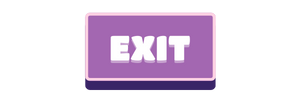
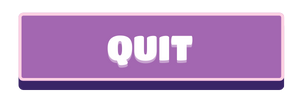
Added a quit button in the main menu
UwU

diff --git a/ShootingStar/src/screens/MainMenu.java b/ShootingStar/src/screens/MainMenu.java
@@ -31,9 +31,9 @@ import javafx.scene.Node;
 public class MainMenu {
 	private static final Image logo = new Image("assets/buttons/logo.png", 450, 450, false, true);
 	private static final Image play = new Image("assets/buttons/play.png");
-	private static final Image tutorial = new Image("assets/buttons/tutorial.png");
+	private static final Image tutorial = new Image("assets/buttons/help.png");
 	private static final Image credits = new Image("assets/buttons/credits.png");
-	private boolean visited = false;
+	private static final Image quit = new Image("assets/buttons/quit.png");
 	private ImageView view_bg;
  	private Sound sound;
     private Stage primaryStage;
@@ -53,10 +53,9 @@ public class MainMenu {
         this.highVitality = highVitality;
         this.hasDied = hasDied;
         
-        if(visited == false) {
-        	this.sound = new Sound();
-            playMusic();
-        }
+        this.sound = new Sound();
+        playMusic();
+        
         
      // Load the images
         Image backgroundImage = new Image("assets/background/spacebg.gif");
@@ -74,28 +73,34 @@ public class MainMenu {
         ImageView view_play = new ImageView(play);
         ImageView view_tutorial = new ImageView(tutorial);
         ImageView view_credits = new ImageView(credits);
+        ImageView view_quit = new ImageView(quit);
         
         // Resize the images
         view_play.setFitWidth(200);
         view_tutorial.setFitWidth(200);
         view_credits.setFitWidth(200);
-
+        view_quit.setFitWidth(200);
+        
         view_play.setPreserveRatio(true);
         view_tutorial.setPreserveRatio(true);
         view_credits.setPreserveRatio(true);
+        view_quit.setPreserveRatio(true);
         
         // Create buttons for the main menu
         Button playButton = new Button();  
         Button tutorialButton = new Button();
         Button creditsButton = new Button();
+        Button quitButton = new Button();
         
         playButton.setStyle("-fx-background-color: transparent; -fx-border-width: 0;");
         tutorialButton.setStyle("-fx-background-color: transparent; -fx-border-width: 0;");
         creditsButton.setStyle("-fx-background-color: transparent; -fx-border-width: 0;");
- 
+        quitButton.setStyle("-fx-background-color: transparent; -fx-border-width: 0;");
+        
         playButton.setGraphic(view_play);
         tutorialButton.setGraphic(view_tutorial);
         creditsButton.setGraphic(view_credits);
+        quitButton.setGraphic(view_quit);
 
         // Set action handlers for the buttons 
         playButton.setOnAction(event -> {
@@ -114,6 +119,10 @@ public class MainMenu {
             hideChildren();
             showCredits();
         });
+        
+        
+        quitButton.setOnAction(event -> quitApplication());
+        
         // storeButton.setOnAction(event -> showStoreScreen());
         // settingsButton.setOnAction(event -> showSettingsScreen());
 
@@ -121,7 +130,7 @@ public class MainMenu {
         StackPane logoLayout = new StackPane(view_logo);
         VBox buttonsLayout = new VBox(-10);
         buttonsLayout.setAlignment(Pos.CENTER);
-        buttonsLayout.getChildren().addAll(playButton, tutorialButton, creditsButton);
+        buttonsLayout.getChildren().addAll(playButton, tutorialButton, creditsButton, quitButton);
         buttonsLayout.setTranslateY(200);
         view_logo.setTranslateY(-140); 
 
@@ -245,6 +254,11 @@ public class MainMenu {
         Credits credits = new Credits(primaryStage, this);
         primaryStage.setTitle("Shooting Star [Credits] [alpha]");
         primaryStage.setScene(credits.getScene());
+    }
+    
+    private void quitApplication() {
+        System.out.println("Quitting the application");
+        System.exit(0);
     }
     
     private void playMusic() {
